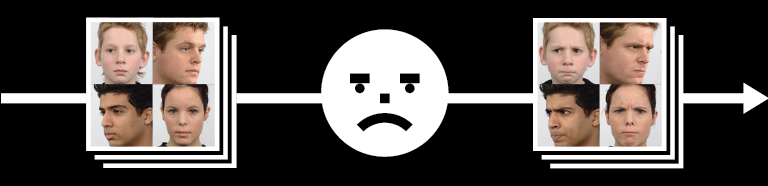
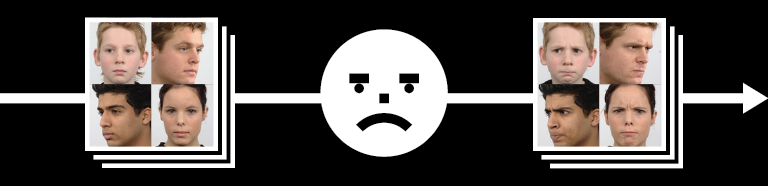
Updated glyphs and selectable camera

diff --git a/camvector.py b/camvector.py
@@ -43,7 +43,7 @@ vector_files = [
 ]
 
 small_vector_files = [
-    "images/OneShot.png",
+    "images/OneShotSmall.png",
     "images/HappySmall.png",
     "images/SurprisedSmall.png",
     "images/AngrySmall.png",
@@ -57,8 +57,8 @@ canned_faces = [
     "images/yann.jpg",
 ]
 
-def setup_camera():
-    cam = cv2.VideoCapture(0)
+def setup_camera(device_number):
+    cam = cv2.VideoCapture(device_number)
     result1 = cam.set(cv2.CAP_PROP_FRAME_WIDTH,cam_width)
     result2 = cam.set(cv2.CAP_PROP_FRAME_HEIGHT,cam_height)
     result3 = cam.set(cv2.CAP_PROP_FPS,1)
@@ -239,11 +239,10 @@ class MainApp():
             # vector_im = imread(vector_files[i], mode='RGB')
             if i == 1:
                 h, w, c = vector_im.shape
-                print("ww, w, x", window_width, w, int((window_width - w) / 2))
                 self.small_vector_x = int((window_width - w) / 2)
                 self.small_vector_y = int((window_height - h) / 2)
-                self.small_vector_y1 = int(0)
-                self.small_vector_y3 = int(window_height - h)
+                self.small_vector_y1 = int((256 - h) / 2)
+                self.small_vector_y3 = int(window_height-(256/2) - h/2)
             self.small_vector_textures.append(image_to_texture(vector_im))
         self.cur_canned_face = -1
         self.canned_aligned_faces = []
@@ -351,7 +350,7 @@ class MainApp():
         # initialize camera and dmodel after warming up
         if self.camera is None and self.use_camera and self.cur_frame > 10:
             print("Initializing camera")
-            self.camera = setup_camera()
+            self.camera = setup_camera(self.camera_device)
 
         if self.cur_frame == 5:
             print("Fake key presses")
@@ -478,7 +477,11 @@ if __name__ == "__main__":
                         help="Index to screen to use for window one in fullscreen mode")
     parser.add_argument('--full2', dest='full2', default=None, type=int,
                         help="Index to screen to use for window two in fullscreen mode")
+    parser.add_argument('--camera', dest='camera', default=1, type=int,
+                        help="Camera device number")
     args = parser.parse_args()
+
+    theApp.camera_device = args.camera
 
     display = pyglet.window.get_platform().get_default_display()
     screens = display.get_screens()
